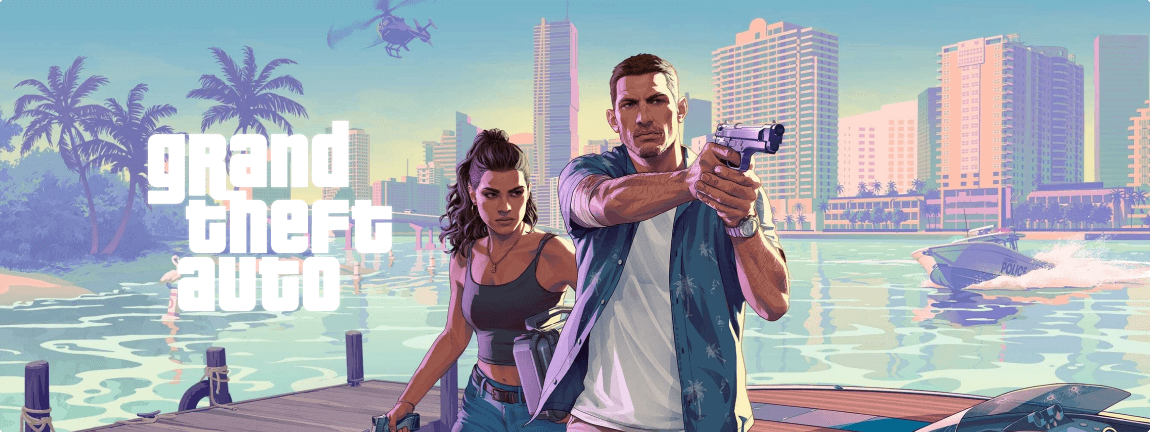
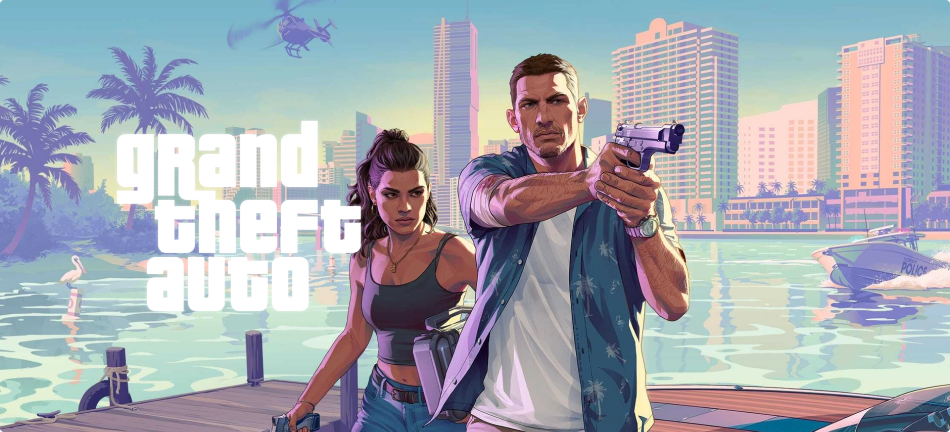
Ajustes na home

diff --git a/style.css b/style.css
@@ -1,4 +1,3 @@
-
 @import url('https://fonts.googleapis.com/css2?family=Inter:ital,opsz,wght@0,14..32,100..900;1,14..32,100..900&display=swap');
 
 /* Horário de atendimento */
@@ -18,7 +17,7 @@ body.dark-mode {
 }
 
 .container {
-  max-width: 1640px;
+  max-width: 1460px;
 }
 
 .box-product .holder-image img {
@@ -31,7 +30,17 @@ body.dark-mode {
 
 .header-content .search-btn {
     left: auto;
-    right: 20px;
+    right: 4px;
+    top: 4px;
+    padding: 10px;
+    border-radius: 999px;
+    border: 1px solid #9D41FF;
+}
+
+.icon-search {
+    width: 24px;
+    height: 24px;
+    background: url(https://i.imgur.com/n4tMLSo.png) center no-repeat;
 }
 
 .home .banner-1.banner_1-2 {
@@ -60,7 +69,7 @@ body.dark-mode {
 }
 
 .section-header:has(.h-left-container) .header-row.--left {
-    width: min(100%, 1640px);
+    width: min(100%, 1460px);
     justify-content: space-between;
 }
 
@@ -81,8 +90,8 @@ body.dark-mode {
     align-items: center;
     gap: 12px;
     border-radius: 6px;
-    border: 1px solid #ffffff30;
     padding: 14px 24px;
+    flex-direction: row-reverse;
 }
 
 .header-content .mini-cart-holder {
@@ -90,10 +99,11 @@ body.dark-mode {
     justify-content: center;
     display: flex;
     padding: 12px 24px;
-    height: 48px;
+    height: 54px;
     width: auto;
-    border-radius: 6px;
-    border: 1px solid #ffffff30;
+    border-radius: 999px;
+    border: 1px solid rgba(255, 255, 255, .1);
+    background: #141619;
 }
 
 .section-header:has(.h-left-container) .header-content-right {
@@ -110,8 +120,9 @@ body.dark-mode {
 }
 
 body.dark-mode input:not([type=checkbox],[type=radio]) {
-    border: 1px solid #ffffff30;
-    background: none;
+    border: 1px solid rgba(255, 255, 255, .1);
+    background: #141619;
+    height: 54px;
 }
 
 .box-product .holder-buy-button .buy-button {
@@ -154,7 +165,7 @@ body.dark-mode input:not([type=checkbox],[type=radio]) {
 }
 
 .home .video {
-    max-width: 1640px;
+    max-width: 1460px;
     margin: 0 auto;
     border-radius: 6px;
     background: #1C1D20;
@@ -163,7 +174,7 @@ body.dark-mode input:not([type=checkbox],[type=radio]) {
 
 .video .yt-video {
     width: 80vw;
-    max-width: 1640px;
+    max-width: 1460px;
     max-height: 760px;
     height: auto;
 }
@@ -196,15 +207,13 @@ body.dark-mode input:not([type=checkbox],[type=radio]) {
 
 
 .product-actual-price {
-    padding: 8px 16px;
-    background-color: #ffffff10;
-    border-radius: 6px;
     margin: 8px 0;
-    border: 1px solid #ffffff20;
+    font-size: 24px;
+    font-weight: 500;
 }
 
 .section-header:has(.h-left-container) .categories-menu {
-    width: min(100%, 1640px);
+    width: min(100%, 1460px);
 }
 
 .top-ratings .holder-review .review-content {
@@ -325,6 +334,7 @@ body.dark-mode .collection-12 .product-name {
 
     .main-banner .holder-main-banner .banner:not(.is-active) {
         height: auto;
+        width: 100%;
     }
 
     .logo, .logo img {
@@ -333,13 +343,19 @@ body.dark-mode .collection-12 .product-name {
 
     section.banner-2.banner_2-3 {
         margin: 0 !important;
+        width: 100%;
     }
 
     .main-banner .holder-main-banner {
         display: flex;
         margin: 0;
         gap: 32px;
-        width: 100%;
+        max-width: 1440px;
+        padding: 0;
+    }
+
+    .main-banner .holder-main-banner > .splide {
+        max-width: 950px;
     }
 
     .main-banner.main_banner-1 {
@@ -354,10 +370,8 @@ body.dark-mode .collection-12 .product-name {
     .holder-banner-2 > .flex {
         flex-direction: column;
         gap: 32px;
-    }
-    
-    section.banner-2.banner_2-3 {
-        margin: 0!important;
+        height: 100%;
+        justify-content: space-between;
     }
 
     .holder-banner-2 > .flex .banner {
@@ -367,6 +381,8 @@ body.dark-mode .collection-12 .product-name {
 
     .holder-banner-2 {
         padding: 0;
+        max-width: 100%;
+        height: 100%;
     }
 
     .categories-highlight {
@@ -388,7 +404,7 @@ body.dark-mode .collection-12 .product-name {
     }
 
     .footer .holder-footer .section-1, .footer .holder-footer .section-3 {
-        max-width: 1640px;
+        max-width: 1460px;
     }
 
     .section-header:has(.h-left-container) .holder-search {
@@ -396,7 +412,7 @@ body.dark-mode .collection-12 .product-name {
     }
 
     .section-header:has(.h-left-container) .header-row.--left.categories {
-        max-width: 1640px;
+        max-width: 1460px;
         padding: 0;
     }
 
@@ -423,7 +439,7 @@ body.dark-mode .collection-12 .product-name {
     } */
 
     .section-header:has(.h-left-container) .header-row.--left:not(.categories) {
-        width: min(100%, 1640px)!important;
+        width: min(100%, 1460px)!important;
     }
 
     .highlight-holder > div {
@@ -502,6 +518,16 @@ body.dark-mode .collection-12 .product-name {
 
 }
 
+
+@media screen and (min-width: 701px) and (max-width: 1280px) {
+    section.banner-2.banner_2-3 {
+        display: none;
+    }
+    .main-banner .holder-main-banner > .splide {
+        max-width: 100%;
+    }
+
+}
 
 /* Somente Mobile */
 @media screen and (max-width: 700px) {
@@ -678,8 +704,14 @@ body.dark-mode .collection-12 .product-name {
     justify-content: center;
     border-radius: 0;
     margin: 0;
+    background: #1F162D;
+    color: #fff;
 }
 
 .products-list .box-product .holder-info {
     padding: 24px;
+}
+
+.box-product .buy-button-text-icon {
+    height: 40px;
 }
